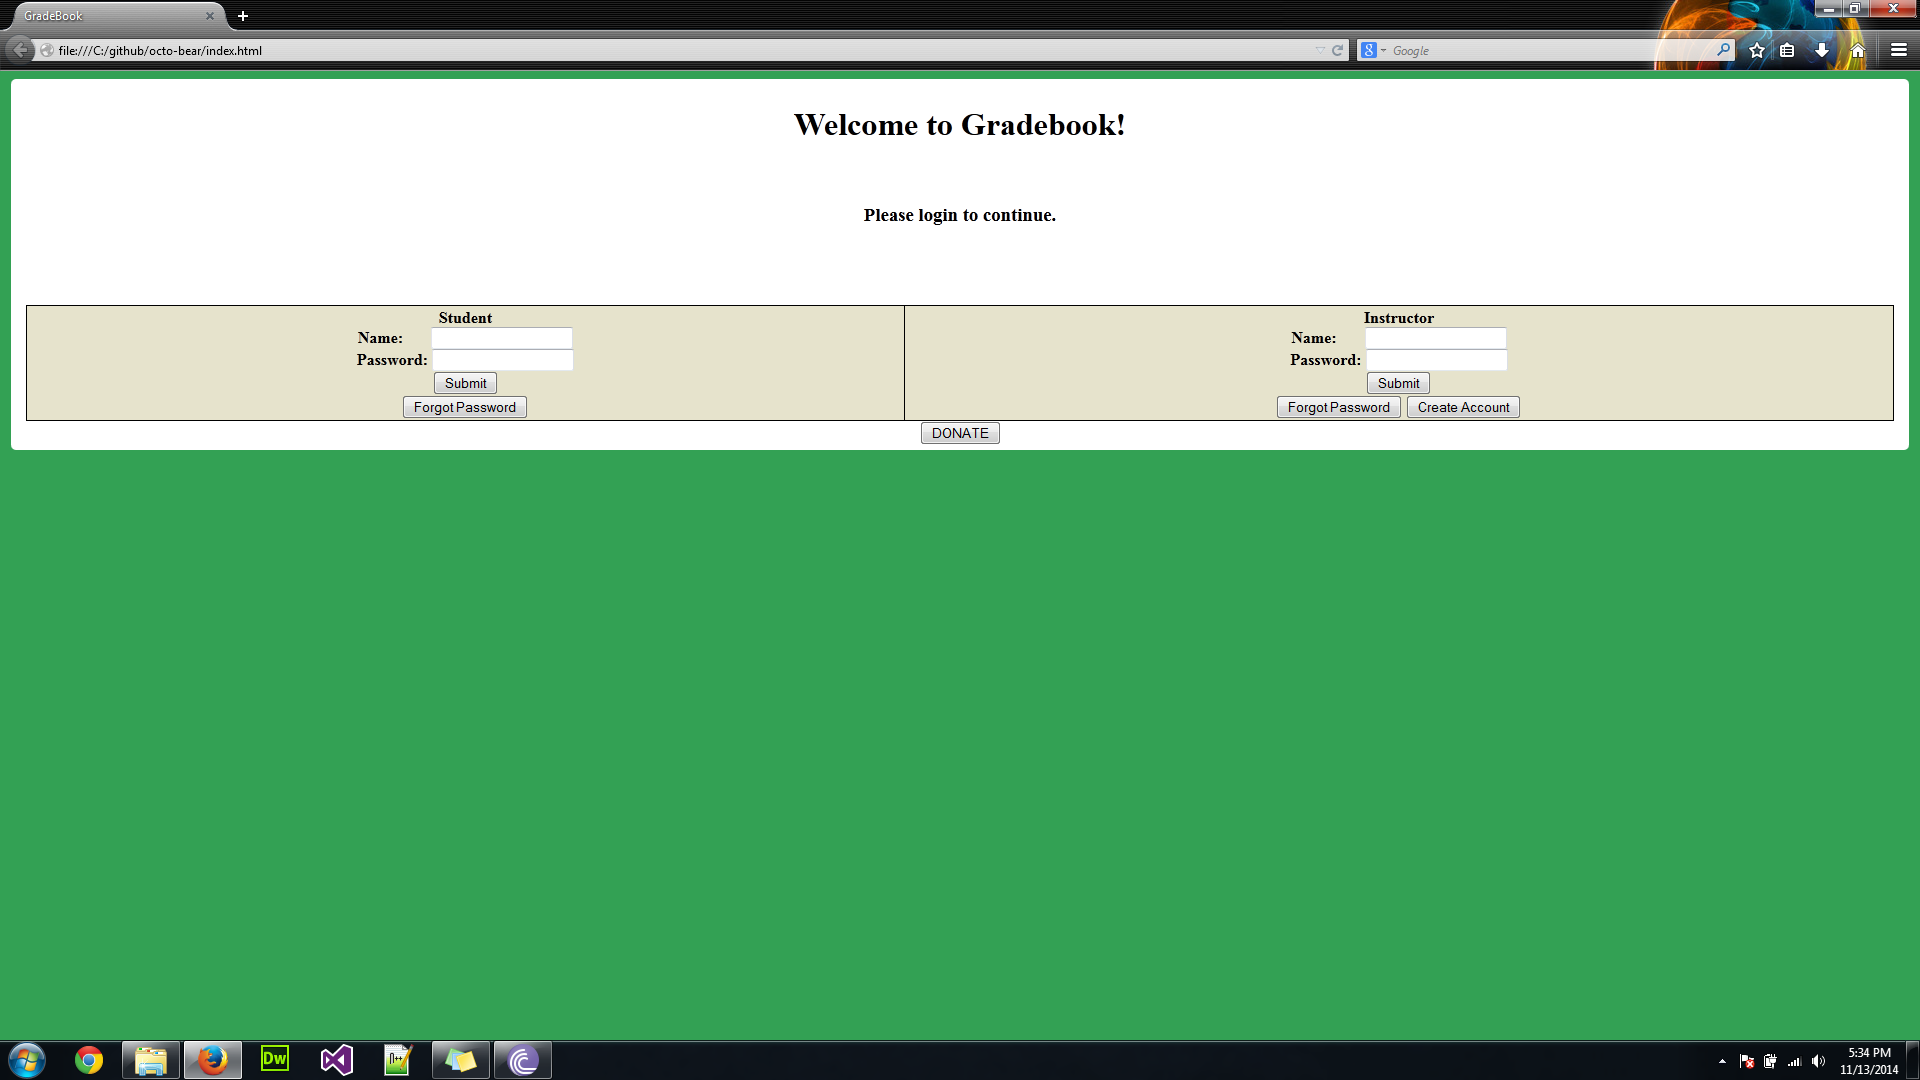
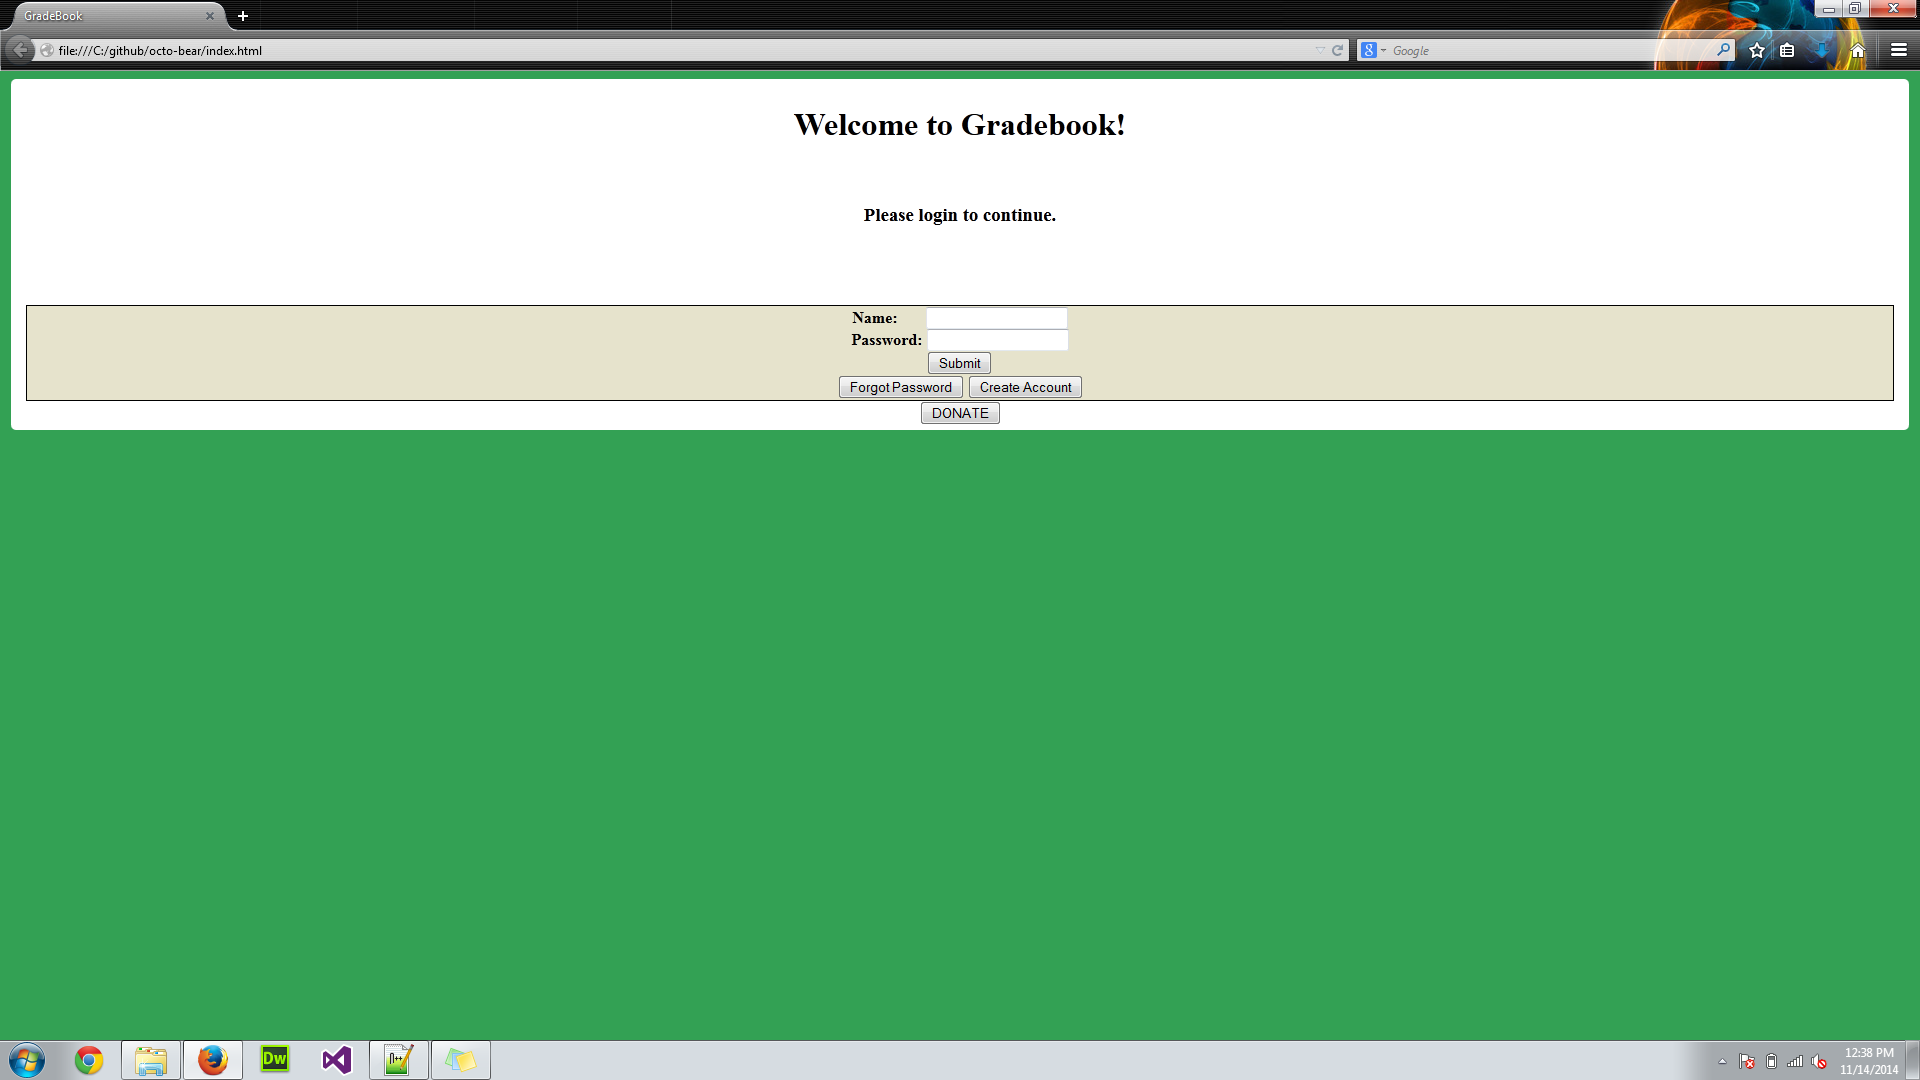
updated login page to match the UML

Changed region(s): [[0.0, 0.275, 1.0, 0.4278], [0.0, 0.9472, 1.0, 1.0], [0.9375, 0.0, 1.0, 0.0306]]

diff --git a/index.html b/index.html
@@ -21,23 +21,9 @@
         <!--Login fields. First is student on right, then instructor on left-->
         <table class="table" border=1>
              <tr>
-                 <td>
-                    <form name="loginStudent" method="get">
-                        
-                        Student<br/>
-                        Name:&nbsp;&nbsp;&nbsp;&nbsp;&nbsp;&nbsp;&nbsp;<input type="text" name="name"> <br/>
-                        Password:  <input type="password" name="pswd"> <br/>
-                        <input type="button" value="Submit" onClick="student()"></input>
-                        <br/>
-                        <input type="button" value="Forgot Password" onClick="newPass()"></input>
-                        
-                    </form>
-                </td>
-                
                 <td>
                     <form name="loginInstructor" method="get">
-            
-                        Instructor<br/>
+           
                         Name:&nbsp;&nbsp;&nbsp;&nbsp;&nbsp;&nbsp;&nbsp;<input type="text" name="name"> <br/>
                         Password:  <input type="password" name="pswd"> <br/>
                         <input type="button" value="Submit" onClick="instructor()"></input>
